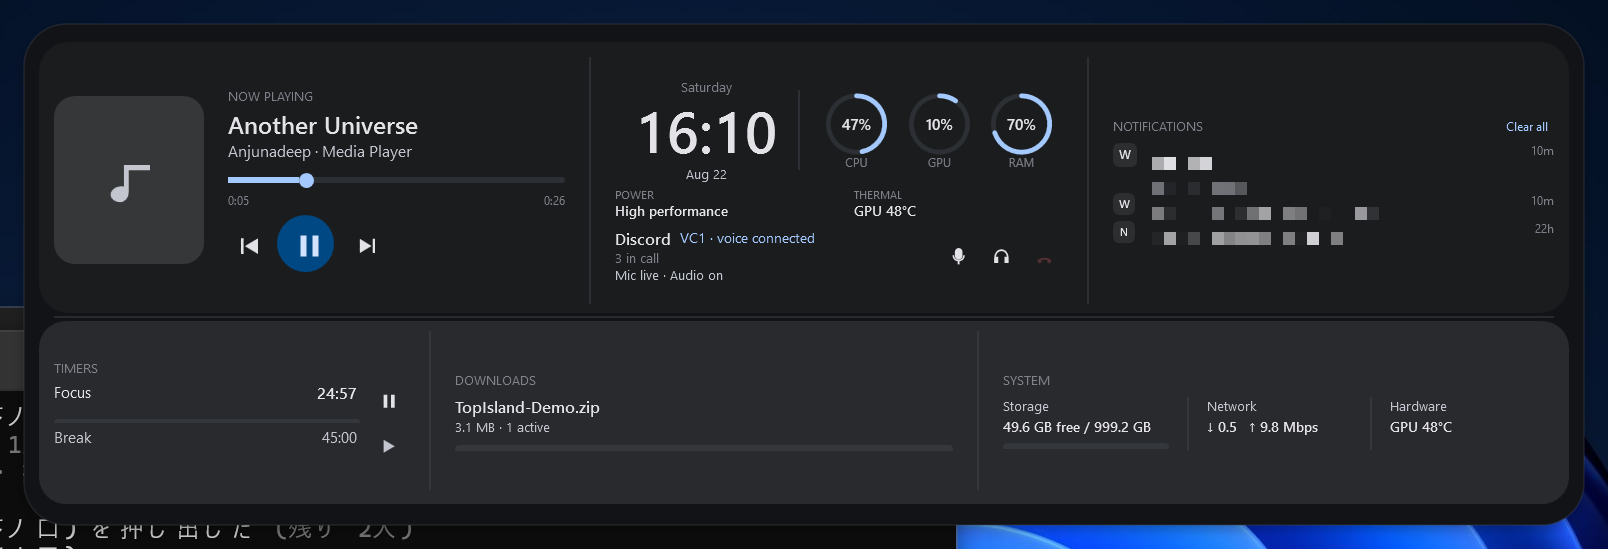
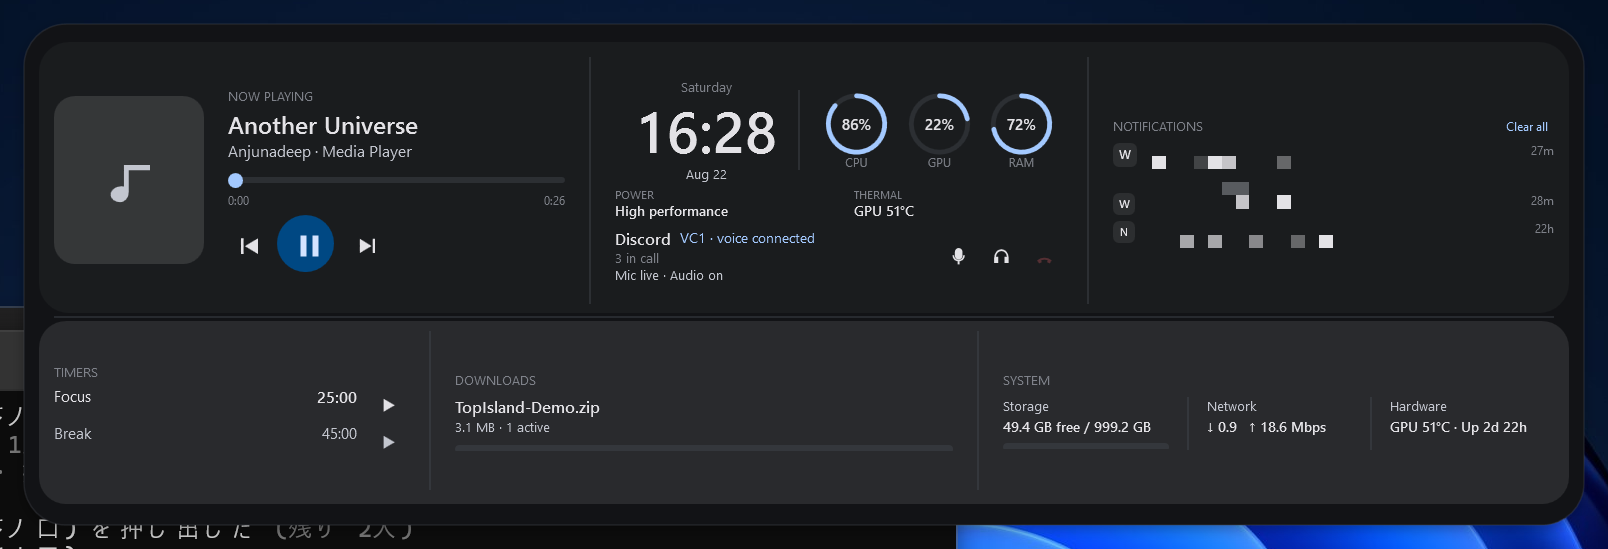
Refresh adaptive layout documentation and screenshots

diff --git a/README.md b/README.md
@@ -31,8 +31,9 @@ TopIsland currently uses real Windows/application data for:
 - Windows GMTC media title, source, artwork, playback position, interactive seek and Previous / Play-Pause / Next
 - Foreground application title, process and executable icon; Expanded also shows live foreground-process CPU, memory and process uptime in the SESSION lane when no download is active
 - **CPU / GPU / RAM** usage
-- Compact CPU/RAM use a clipped **270-degree tachometer sweep**: usage climbs clockwise from the lower-left across the top instead of behaving like a full circular progress ring
+- Compact CPU/RAM use a clipped **270-degree tachometer sweep**: usage climbs clockwise from the lower-left across the top, with short ease-out interpolation so live samples move like gauges instead of jumping between values
 - **Discord VC** from the live Discord Desktop accessibility tree, including hidden/tray-minimized Electron windows, channel/server, participant count, Mute/Deafen state and real Mute / Deafen / Leave controls when Discord exposes those UIA patterns
+- Default Windows audio output and master volume in Expanded when Discord voice is not occupying that Overview slot
 - Network download/upload throughput
 - System-drive free/total storage
 - Active browser/download-manager partial downloads, including current bytes and measured transfer speed when available
@@ -49,7 +50,7 @@ Notification permission is never requested automatically. If access is not alrea
 - **Hover** — subtly wider/deeper
 - Hover gives a running Focus timer its own remaining-time + real Pause/Resume control before lower-priority activity text
 - **Peek** — reveals selected lower-priority information without opening the full surface
-- **Expanded** — Context/Now Playing, a large clock-centered Overview with CPU/GPU/RAM and Discord voice controls, and Notifications when present. The lower row is Timers, SESSION (foreground process telemetry) or active Downloads, and Storage / Network / Hardware
+- **Expanded** — Context/Now Playing, a large clock-centered Overview with CPU/GPU/RAM, Power/Thermal and Discord voice controls (or Output/Volume when not in voice), plus Notifications when present. The lower row is Timers, SESSION (foreground process telemetry) or active Downloads, and Storage / Network / Hardware/Uptime
 
 Smaller widths remove information instead of shrinking every label. When no download is moving, the lower middle lane shows the foreground **SESSION** (process, memory, CPU, threads and uptime); an actively changing partial download replaces that lane instead of creating another permanent card. Discord controls appear only while voice is connected, and Notifications collapse when unavailable. Full Width uses the otherwise empty center for Focus / Voice / active Downloads / Network / Storage instead of stretching artwork or text. Its right-edge settings gear opens the same real TopIsland context menu used by the tray/overlay. The Expanded clock remains the visual anchor above the two-row information layout.
 

diff --git a/docs/DESIGN-AUDIT.md b/docs/DESIGN-AUDIT.md
@@ -71,10 +71,10 @@ Expanded Notch follows the BoringNotch relationship:
 - Authentic Notch: artwork/app icon + one compact status, currently time
 - Compact: add primary title
 - Standard: add subtitle/source when space allows
-- Idle >= 520 dip: allow compact CPU/RAM as clipped 270-degree tachometer arcs; do not use full 360-degree rings in the compact shell
+- Idle >= 520 dip: allow compact CPU/RAM as clipped 270-degree tachometer arcs; do not use full 360-degree rings in the compact shell. Sample changes should interpolate briefly instead of snapping.
 - Peek >= 430 dip: allow compact CPU/RAM
 - Hover/Peek: a running Focus timer gets the dedicated remaining-time + Pause/Resume control; otherwise show at most one lower-priority activity summary at Standard width
-- Expanded: the top row is Context/Now Playing, a large clock-centered Overview (CPU/GPU/RAM, power/thermal summary, live Discord voice controls), and Notifications when real notifications exist. The lower row is Timers, a SESSION lane using live foreground-process telemetry that is replaced by Downloads only while bytes are actively changing, and compact Storage/Network/Hardware metrics.
+- Expanded: the top row is Context/Now Playing, a large clock-centered Overview (CPU/GPU/RAM, power/thermal summary, live Discord voice controls or real audio output/volume when not in voice), and Notifications when real notifications exist. The lower row is Timers, a SESSION lane using live foreground-process telemetry that is replaced by Downloads only while bytes are actively changing, and compact Storage/Network/Hardware/Uptime metrics.
 
 Do not scale typography down to preserve content. Remove lower-priority content instead.
 
